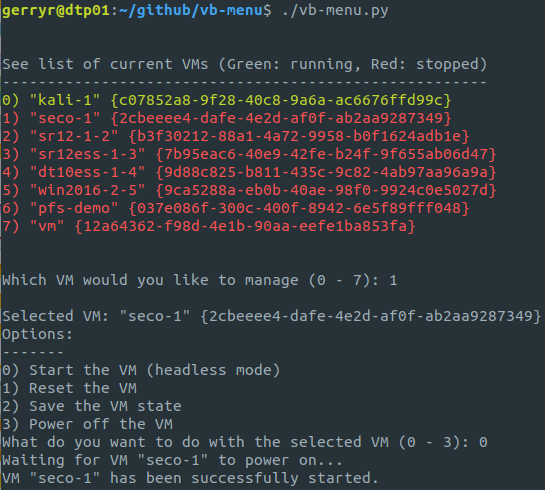
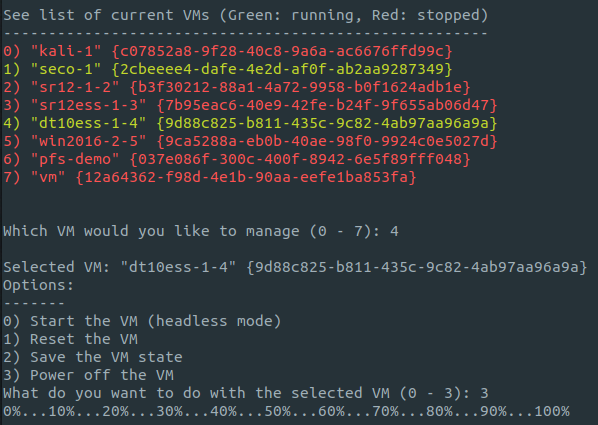
4 main commands working, testing needed

diff --git a/vb-menu.py b/vb-menu.py
@@ -57,6 +57,22 @@ def resetVM(selectedVM):
   else:
     return resetVMoutput.stdout
 
+# Save state of the selected VM and close
+def saveVM(selectedVM):
+  saveVMoutput = subprocess.run(['vboxmanage', 'controlvm', selectedVM, 'savestate'], capture_output=True, text=True)
+  if (saveVMoutput.stderr != ""):
+    return saveVMoutput.stderr
+  else:
+    return saveVMoutput.stdout
+
+# Save state of the selected VM and close
+def powerOffVM(selectedVM):
+  powerOffVMoutput = subprocess.run(['vboxmanage', 'controlvm', selectedVM, 'poweroff'], capture_output=True, text=True)
+  if (powerOffVMoutput.stderr != ""):
+    return powerOffVMoutput.stderr
+  else:
+    return powerOffVMoutput.stdout
+
 
 def main():
 
@@ -119,9 +135,9 @@ def main():
         elif(actionSelect == "1"):
             print(resetVM(vmList[int(vmSelect)].split(None, 1)[0].strip('\"')))
         elif(actionSelect == "2"):
-            print("Two")
+            print(saveVM(vmList[int(vmSelect)].split(None, 1)[0].strip('\"')))
         elif(actionSelect == "3"):
-            print("Three")
+            print(powerOffVM(vmList[int(vmSelect)].split(None, 1)[0].strip('\"')))
         else:
             print("Invalid selection")
 

diff --git a/README.md b/README.md
@@ -15,3 +15,5 @@ List is incomplete, just the first few options that come to mind.
 **Instructions:**
 
 Just run the python file, it will list VMs on the machine and their current state and let you pick a VM and an action to run on it.
+
+![](vb-menu.png)
